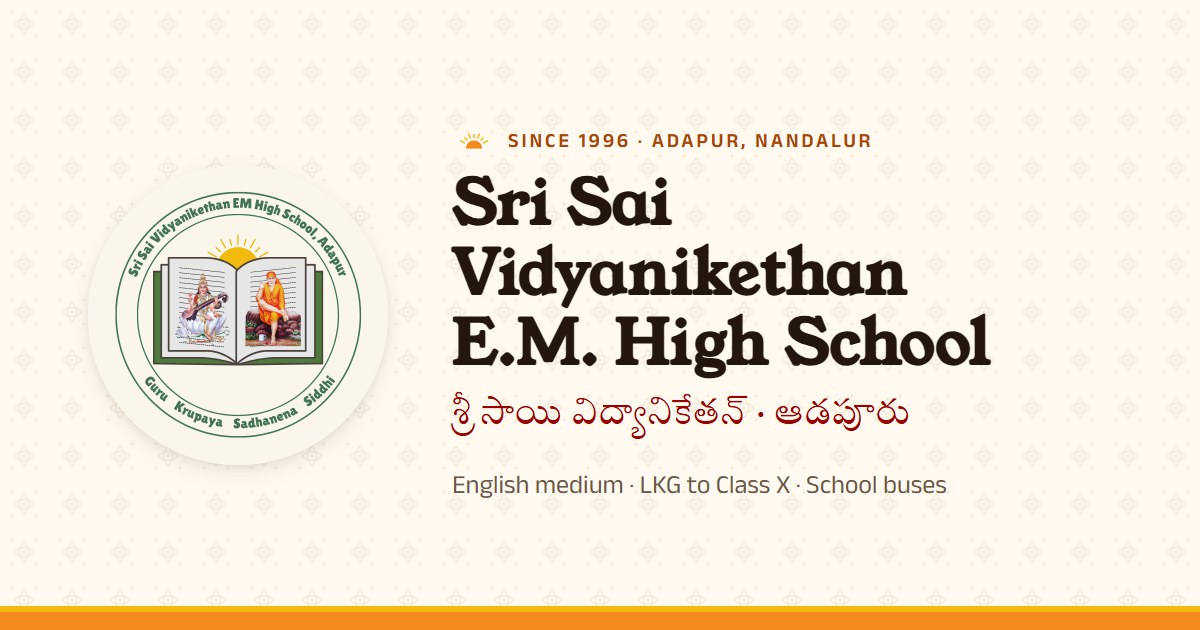
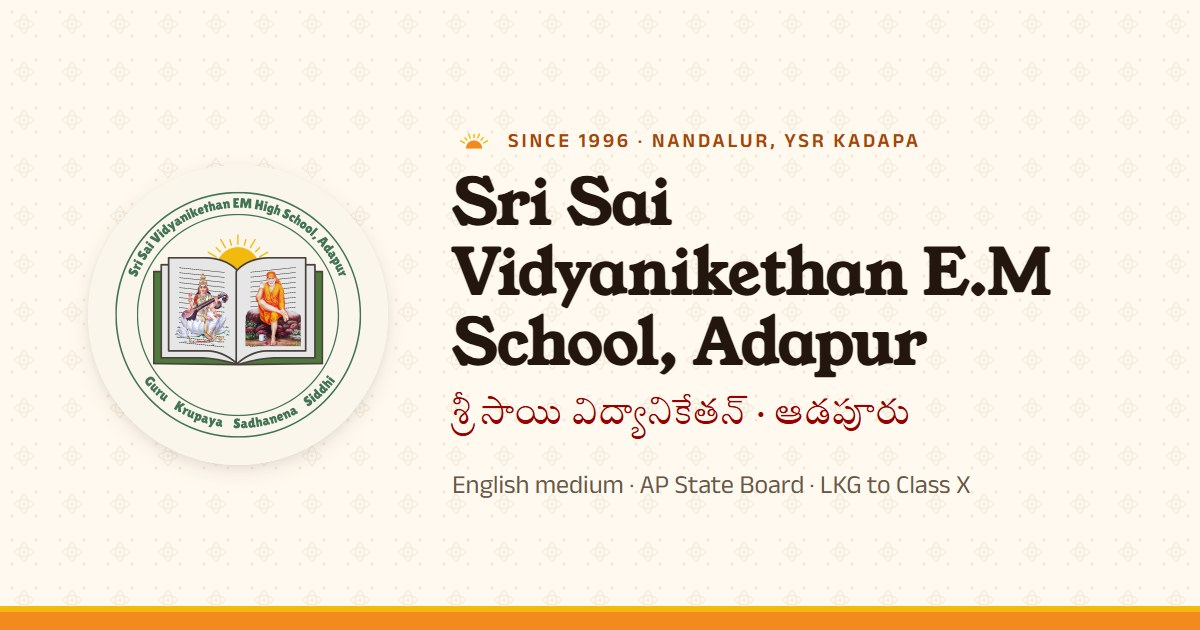
Use the Google Maps name; add board, district and bus villages
- Official name everywhere is now "Sri Sai Vidyanikethan E.M School,
  Adapur", exactly as on the Google Maps listing (site title, footer,
  copyright, structured data, manifest, share image); the former name
  stays as an alternateName
- Andhra Pradesh State Board, co-educational and YSR Kadapa district in
  page descriptions, the School structured data and two home-page lines
  (the "LKG to Class X" fact and the programmes introduction)
- Admissions: a "School buses" section lists the 27 villages and towns
  along and near the Nandalur – Pothapi Road (bus_villages in
  site.yml), also published as areaServed for search engines
- docs/seo.md: Search Console via a URL-prefix property and the HTML
  tag (no DNS changes at ERNET, no Google Ads account needed)

Changed region(s): [[0.37, 0.3921, 0.8942, 0.6032], [0.5242, 0.754, 0.8017, 0.7841], [0.5242, 0.2111, 0.7708, 0.2413]]

diff --git a/_includes/frame/schema-school.html b/_includes/frame/schema-school.html
@@ -10,8 +10,10 @@
   "@type": "School",
   "@id": {{ "/#school" | absolute_url | jsonify }},
   "name": {{ sc.name_full | jsonify }},
-  "alternateName": [{{ sc.google_listing_name | jsonify }}, {{ sc.name | jsonify }}, {{ sc.name_te | jsonify }}, "SSVN"],
-  "description": {{ site.data.home.hero.lede | jsonify }},
+  "alternateName": [{% for n in sc.former_names %}{{ n | jsonify }}, {% endfor %}{{ sc.name | jsonify }}, {{ sc.name_te | jsonify }}, "SSVN"],
+  {%- capture sc_description %}{{ sc.school_type }}, English-medium school following the {{ sc.board }}, in Adapur near Nandalur, {{ sc.district }} district, Andhra Pradesh. LKG to Class X, since {{ sc.since }}.{% endcapture %}
+  "description": {{ sc_description | jsonify }},
+  "keywords": {{ sc.school_type | append: ", English medium, " | append: sc.board | append: ", LKG to Class X, " | append: sc.district | jsonify }},
   "url": {{ "/" | absolute_url | jsonify }},
   "logo": {{ site.logo | absolute_url | jsonify }},
   "image": [{{ "/assets/images/share/ssvn-share.jpg" | absolute_url | jsonify }}, {{ site.logo | absolute_url | jsonify }}],
@@ -28,6 +30,12 @@
   },
   "geo": { "@type": "GeoCoordinates", "latitude": {{ sc.geo.latitude }}, "longitude": {{ sc.geo.longitude }} },
   "hasMap": {{ sc.maps_url | jsonify }},
+  "areaServed": [
+    {"@type": "AdministrativeArea", "name": {{ sc.district | append: " district, Andhra Pradesh" | jsonify }}},
+    {%- for v in sc.bus_villages %}
+    {"@type": "Place", "name": {{ v | append: ", " | append: sc.district | jsonify }}}{% unless forloop.last %},{% endunless %}
+    {%- endfor %}
+  ],
   "openingHoursSpecification": [{
     "@type": "OpeningHoursSpecification",
     "dayOfWeek": ["Monday", "Tuesday", "Wednesday", "Thursday", "Friday", "Saturday"],

diff --git a/admissions.html b/admissions.html
@@ -2,7 +2,7 @@
 layout: page
 permalink: /admissions/
 title: Admissions
-description: Admissions to Sri Sai Vidyanikethan E.M. High School, Adapur, near Nandalur — LKG to Class X. Plan a visit, apply online, or call +91 96768 59202.
+description: Admissions to Sri Sai Vidyanikethan E.M School, Adapur — LKG to Class X, AP State Board. School buses along the Nandalur – Pothapi Road. Call +91 96768 59202.
 eyebrow: Admissions
 heading: Join us, from LKG to Class X
 lede: Come and see a school day for yourself, then apply online or at the school office. We are happy to answer your questions on the phone or WhatsApp.
@@ -21,7 +21,22 @@ crumb: Admissions
   </div>
 </section>
 
-<section class="sv-section sv-section--sandal" id="questions">
+<section class="sv-section sv-section--sandal" id="buses">
+  <div class="sv-container">
+    {%- capture bus_lede %}Our buses serve these villages and towns along and near the {{ s.bus_road }}, and others nearby. Call the office to check the stop closest to your home.{% endcapture %}
+    {% include sv/section-heading.html eyebrow="School buses" title="Villages and towns on our bus routes" lede=bus_lede %}
+    <div class="sv-places">
+      <p class="sv-places__title heading-3">{% include sv/icon.html name="bus" px=22 %}<span>{{ s.bus_road }}</span></p>
+      <ul class="sv-places__list">
+        {%- for v in s.bus_villages %}
+        <li>{{ v }}</li>
+        {%- endfor %}
+      </ul>
+    </div>
+  </div>
+</section>
+
+<section class="sv-section sv-section--paper" id="questions">
   <div class="sv-container">
     {% include sv/section-heading.html eyebrow="Questions" title="Ask us before you apply" %}
     <div class="sv-split">

diff --git a/assets/css/site.css b/assets/css/site.css
@@ -103,6 +103,15 @@ section[tabindex="-1"]:focus { outline: none; }
 .sv-hero__actions .sv-btn { flex: 1 1 auto; }
 .sv-hero__actions .sv-btn--lg { padding-left: var(--space-5); padding-right: var(--space-5); }
 
+/* ===== Places list (proposed to Udaya): villages on the bus routes, in balanced columns on a raised panel ===== */
+.sv-places { padding: var(--space-5) var(--space-6); background: var(--paper-raised); border: 1px solid var(--line); border-radius: var(--radius-lg); box-shadow: var(--shadow-sm); }
+.sv-places__title { display: flex; align-items: center; gap: var(--space-2); margin: 0 0 var(--space-4); font-family: var(--font-display); font-weight: 400; }
+.sv-places__title .sv-icon { color: var(--saffron-ink); }
+.sv-places__list { margin: 0; padding: 0; list-style: none; column-width: 13rem; column-gap: var(--space-6); }
+.sv-places__list li { position: relative; break-inside: avoid; padding: var(--space-1) 0 var(--space-1) var(--space-4); }
+.sv-places__list li::before { content: ""; position: absolute; left: 0; top: 50%; width: 6px; height: 6px; margin-top: -3px; border-radius: var(--radius-round); background: var(--saffron); }
+@media (max-width: 520px) { .sv-places { padding: var(--space-4); } }
+
 /* ===== Layout helpers that replace the kit's inline styles ===== */
 .sv-nowrap { white-space: nowrap; }
 .sv-quick-grid, .sv-video-row { margin-top: var(--space-7); }

diff --git a/index.html b/index.html
@@ -1,6 +1,6 @@
 ---
-title: Sri Sai Vidyanikethan E.M. High School, Adapur
-description: English-medium school in Adapur, near Nandalur, Andhra Pradesh, since 1996. LKG to Class X, caring teachers and school buses to 20+ villages. Plan a visit.
+title: Sri Sai Vidyanikethan E.M School, Adapur
+description: Co-educational English-medium school in Adapur, near Nandalur, YSR Kadapa. AP State Board, LKG to Class X, since 1996. School buses to 20+ villages.
 schema_school: true
 ---
 {%- assign h = site.data.home -%}
@@ -13,7 +13,7 @@ schema_school: true
   <div class="sv-container sv-hero__grid">
     <div class="sv-hero__text">
       <p class="sv-eyebrow">{% include sv/sun.html %}<span>{{ h.hero.eyebrow }}</span></p>
-      <h1 class="sv-hero__motto"><span class="sv-visually-hidden">{{ s.name_full }}, Adapur — </span><span lang="te">{{ s.motto_te }}</span></h1>
+      <h1 class="sv-hero__motto"><span class="sv-visually-hidden">{{ s.name_full }} — </span><span lang="te">{{ s.motto_te }}</span></h1>
       <p class="sv-hero__motto-en">{{ s.motto_en }}</p>
       <p class="sv-hero__lede body-l">{{ h.hero.lede }}</p>
       <div class="sv-hero__actions">

diff --git a/notices.html b/notices.html
@@ -2,7 +2,7 @@
 layout: page
 permalink: /notices/
 title: Notices and school calendar
-description: Latest notices, circulars, holidays and exam dates from Sri Sai Vidyanikethan E.M. High School, Adapur, near Nandalur.
+description: Latest notices, circulars, holidays and exam dates from Sri Sai Vidyanikethan E.M School, Adapur, near Nandalur, YSR Kadapa district.
 eyebrow: Notices
 heading: Notices and school calendar
 lede: News and circulars from the school, newest first, and the year's holidays, exams and events.

diff --git a/contact.html b/contact.html
@@ -2,7 +2,7 @@
 layout: page
 permalink: /contact/
 title: Contact
-description: Contact Sri Sai Vidyanikethan E.M. High School, 2-59 Pothapi Road, Adapur, Nandalur 516150. Phone and WhatsApp +91 96768 59202, Mon – Sat 9 am – 5 pm.
+description: Contact Sri Sai Vidyanikethan E.M School, 2-59 Pothapi Road, Adapur, Nandalur, YSR Kadapa 516150. Phone and WhatsApp +91 96768 59202, Mon – Sat.
 schema_school: true
 eyebrow: Contact
 heading: Ask us anything

diff --git a/_includes/frame/site-footer.html b/_includes/frame/site-footer.html
@@ -33,6 +33,6 @@
         </ul>
       </nav>
     </div>
-    <div class="sv-footer__legal small">{% include sv/sun.html w=36 horizon=true %}<span>© {{ site.time | date: "%Y" }} {{ ft_site.name_full }}, Adapur</span></div>
+    <div class="sv-footer__legal small">{% include sv/sun.html w=36 horizon=true %}<span>© {{ site.time | date: "%Y" }} {{ ft_site.name_full }}</span></div>
   </div>
 </footer>

diff --git a/docs/seo.md b/docs/seo.md
@@ -6,28 +6,57 @@ What the site already does, and the steps that need a Google login.
 
 - **Titles and descriptions:** every page has its own `title` and a `description` of at most about 155 characters, written around what parents search for (English-medium school, Adapur, Nandalur, admissions, LKG to Class X). Set them in each page's front matter. Notices use their title and first paragraph.
 - **Structured data (schema.org):**
-  - `School` on Home and Contact: name, other names, address, map pin, phone, email, office hours, founding year, logo and social profiles. Source: [_includes/frame/schema-school.html](../_includes/frame/schema-school.html), values from `_data/site.yml`.
+  - `School` on Home and Contact: official name (and the former name), address, map pin, phone, email, office hours, founding year, logo, social profiles, board (Andhra Pradesh State Board), co-educational, YSR Kadapa district, and the villages the buses serve (`areaServed`). Source: [_includes/frame/schema-school.html](../_includes/frame/schema-school.html), values from `_data/site.yml`.
   - `BreadcrumbList` on every inner page.
   - Notices are articles with their publish date (jekyll-seo-tag).
 - **Sharing:** a 1200 × 630 share image (`assets/images/share/ssvn-share.jpg`) on every page, with a large Twitter/X card. A page can use its own image with `image:` in its front matter.
 - **Indexing:** canonical URLs, `sitemap.xml` and `robots.txt` (jekyll-sitemap). The 404 page is `noindex`; the Pinterest verification file is left out of the sitemap.
+- **Local content:** the Admissions page lists the villages and towns on the bus routes (`bus_villages` in `_data/site.yml`), so parents searching for a school near their village can find it.
 - **Headings:** one `h1` per page. The home page's `h1` carries the school's name for search engines and screen readers alongside the visible Telugu motto.
 - **Speed:** image sizes are declared (no layout shift), photos lazy-load, the hero image loads first, and fonts start downloading in parallel with the stylesheet.
 
 ## After launch (needs a Google login)
 
-1. **Google Search Console** (https://search.google.com/search-console):
-   - add the property for the **domain** `srisaividyanikethan.edu.in`, verified with a DNS TXT record at the domain registrar. This covers http/https and www.
-   - Alternatively, add a URL-prefix property and paste its HTML-tag code into `_config.yml` → `webmaster_verifications: google:`.
-   - Then **Sitemaps → submit `sitemap.xml`**, and use **URL inspection → Request indexing** for the home page.
-2. **Check the structured data** at https://search.google.com/test/rich-results with `https://srisaividyanikethan.edu.in/` and `/contact/`.
-3. **Google Business Profile** (the school's Google Maps listing):
-   - set the website to `https://srisaividyanikethan.edu.in`;
-   - keep the **name, address and phone exactly the same** as on the site;
-   - add the office hours, the "School" category, and recent photos.
-   The listing currently reads "Sri Sai Vidyanikethan E.M School, Adapur"; the site uses "Sri Sai Vidyanikethan E.M. High School". Pick one and use it in both places.
-4. **Bing Webmaster Tools** (https://www.bing.com/webmasters) can import the site from Search Console in one step.
-5. **Share preview:** paste the site's link into WhatsApp to check the card shows the share image.
+No Google Ads account is needed for any of this. Search Console, the Business Profile and the rich results test are free and only need a Google account. Use the school's own account, **ssvn.em.high.school@gmail.com**, so ownership stays with the school; others can be added as users later.
+
+### 1. Google Search Console: verify the site
+
+The domain's registrar is ERNET India, so the DNS method (a "Domain" property) is impractical. Use a **URL-prefix** property instead, which needs no DNS changes:
+
+1. Open https://search.google.com/search-console, signed in as the school account.
+2. **Add property** → choose the right-hand box, **URL prefix** → enter `https://srisaividyanikethan.edu.in/` → **Continue**.
+3. Under **Other verification methods**, pick one:
+   - **HTML tag** (recommended): Google shows `<meta name="google-site-verification" content="ABC123…" />`. Copy only the `content` value and put it in `_config.yml`:
+     ```yaml
+     webmaster_verifications:
+       google: ABC123…
+     ```
+     jekyll-seo-tag then adds the tag to every page.
+   - **HTML file**: download the `google….html` file and add it at the root of the repository, untouched, like `pinterest-6e078.html`.
+4. Push, wait about a minute for GitHub Pages, then press **Verify**.
+5. **Keep the tag (or file) forever.** Google re-checks it, and removing it un-verifies the site.
+
+The verification only works once it is on the **live** site. The live site is still the old page on `main`, so either launch the redesign first, or use the HTML-file method straight away: the file can be added to `main` today without changing anything else.
+
+Then **Sitemaps** → submit `sitemap.xml` (after launch; the old site has none), and **URL inspection** → **Request indexing** for the home page.
+
+### 2. Check the structured data
+
+Use https://search.google.com/test/rich-results with `https://srisaividyanikethan.edu.in/` and `/contact/`.
+
+### 3. Google Business Profile (the Google Maps listing)
+
+- Set the website to `https://srisaividyanikethan.edu.in`.
+- The site now uses the listing's exact name, **Sri Sai Vidyanikethan E.M School, Adapur** (`name_full` in `_data/site.yml`). Keep the name, address and phone identical in both places.
+- Add the office hours, the "School" category, and recent photos.
+
+### 4. Bing
+
+Bing Webmaster Tools (https://www.bing.com/webmasters) can import the site from Search Console in one step.
+
+### 5. Share preview
+
+Paste the site's link into WhatsApp and check the card shows the share image.
 
 ## Keep it healthy
 

diff --git a/docs/website-plan.md b/docs/website-plan.md
@@ -308,6 +308,8 @@ Phases 0–5 give a launch-ready core. Phases 6–7 can launch together or follo
 | 5 | Admission form | Google Form, linked in a new tab (replaced the Zoho form on 16 October 2026). |
 | 6 | Old updates blog | Left untouched; not imported. |
 | 7 | Repo visibility | Public is fine. |
+| 8 | Official name | "Sri Sai Vidyanikethan E.M School, Adapur", matching Google Maps (16 October 2026). Udaya's naming rule ("…E.M. High School, Adapur" in footers) should be updated to match. |
+| 9 | Board, type, district | Andhra Pradesh State Board; co-educational; YSR Kadapa district. |
 
 **Still to confirm during Phase 5:** that the GitHub organisation (`Sri-Sai-Vidyanikethan-EM-High-School`) allows fine-grained tokens for its repos. An org owner may need to approve the token once.
 

diff --git a/README.md b/README.md
@@ -1,6 +1,6 @@
 # srisaividyanikethan.edu.in
 
-The website of Sri Sai Vidyanikethan E.M. High School, Adapur, built with Jekyll on the school's **Udaya** design system and hosted on GitHub Pages. GitHub builds and publishes the site on every push to `main`.
+The website of Sri Sai Vidyanikethan E.M School, Adapur, built with Jekyll on the school's **Udaya** design system and hosted on GitHub Pages. GitHub builds and publishes the site on every push to `main`.
 
 **Never delete** `CNAME` (the custom domain) or `pinterest-6e078.html` (Pinterest verification).
 
